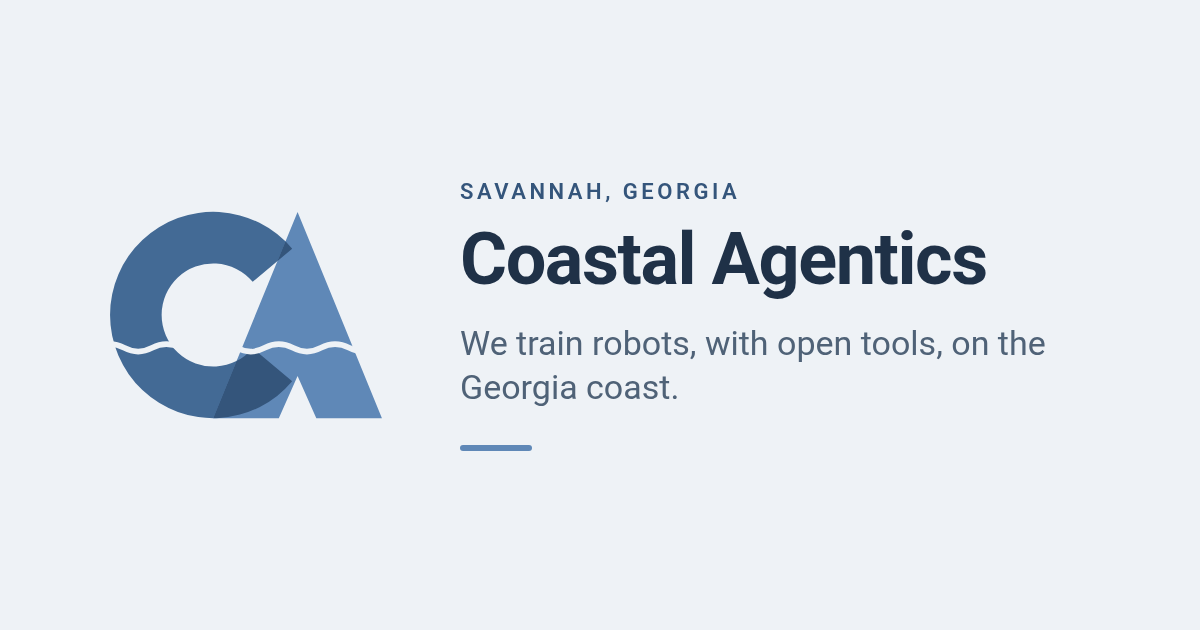
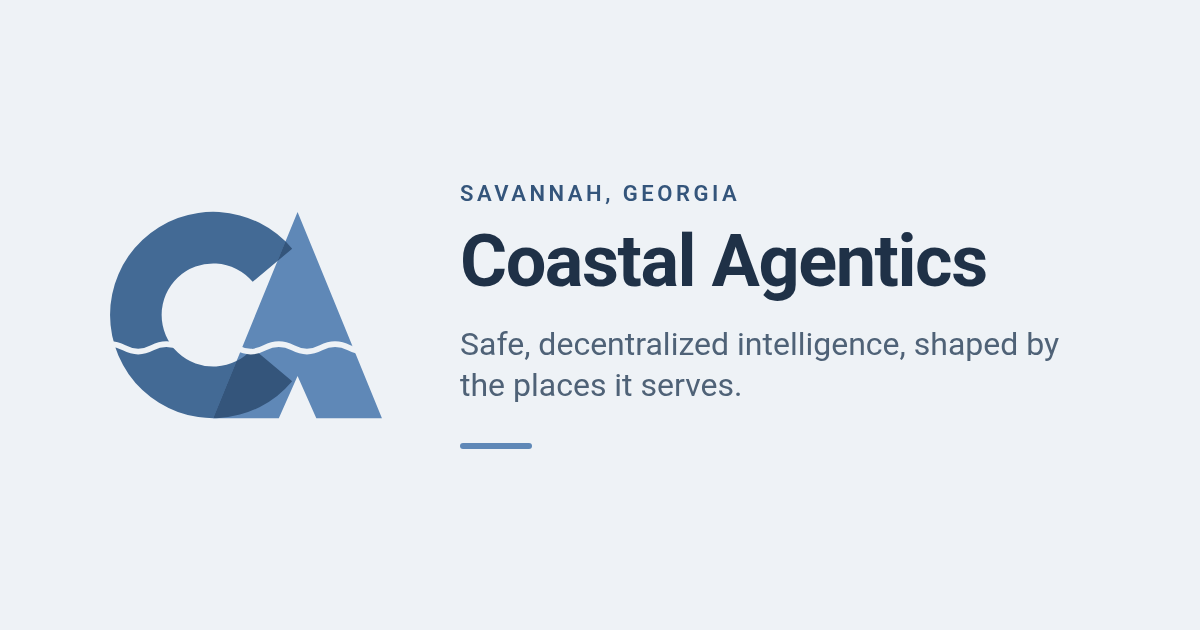
v1.1.0: reposition copy (culture + technology), hero: Safe, decentralized intelligence, shaped by the places it serves.

diff --git a/index.html b/index.html
@@ -3,24 +3,24 @@
 <head>
   <meta charset="utf-8">
   <meta name="viewport" content="width=device-width, initial-scale=1">
-  <title>Coastal Agentics · Savannah, Georgia</title>
-  <meta name="description" content="We train robots, with open tools, on the Georgia coast. Coastal Agentics teaches and demonstrates decentralized agent systems on edge devices.">
+  <title>Coastal Agentics · Safe, decentralized intelligence</title>
+  <meta name="description" content="Safe, decentralized intelligence, shaped by the places it serves. Coastal Agentics researches how communities learn together. Savannah, Georgia.">
   <link rel="icon" href="favicon.svg" type="image/svg+xml">
   <meta name="theme-color" content="#EEF2F6">
   <link rel="canonical" href="https://coastal-agentics.github.io/">
   <!-- Social cards: crawlers require absolute URLs here -->
   <meta property="og:type" content="website">
   <meta property="og:site_name" content="Coastal Agentics">
-  <meta property="og:title" content="Coastal Agentics · Savannah, Georgia">
-  <meta property="og:description" content="We train robots, with open tools, on the Georgia coast.">
+  <meta property="og:title" content="Coastal Agentics · Safe, decentralized intelligence">
+  <meta property="og:description" content="Safe, decentralized intelligence, shaped by the places it serves. Coastal Agentics researches how communities learn together. Savannah, Georgia.">
   <meta property="og:url" content="https://coastal-agentics.github.io/">
   <meta property="og:image" content="https://coastal-agentics.github.io/og-image.png">
   <meta property="og:image:width" content="1200">
   <meta property="og:image:height" content="630">
-  <meta property="og:image:alt" content="Coastal Agentics logo: a solid C and a triangular A. We train robots, with open tools, on the Georgia coast.">
+  <meta property="og:image:alt" content="Coastal Agentics logo: a solid C and a triangular A. Safe, decentralized intelligence, shaped by the places it serves.">
   <meta name="twitter:card" content="summary_large_image">
-  <meta name="twitter:title" content="Coastal Agentics · Savannah, Georgia">
-  <meta name="twitter:description" content="We train robots, with open tools, on the Georgia coast.">
+  <meta name="twitter:title" content="Coastal Agentics · Safe, decentralized intelligence">
+  <meta name="twitter:description" content="Safe, decentralized intelligence, shaped by the places it serves. Coastal Agentics researches how communities learn together. Savannah, Georgia.">
   <meta name="twitter:image" content="https://coastal-agentics.github.io/og-image.png">
   <link rel="stylesheet" href="style.css">
 </head>
@@ -30,6 +30,7 @@
       <img src="logo-wordmark.svg" alt="Coastal Agentics" width="206" height="40">
     </a>
     <nav aria-label="Primary">
+      <a href="#what-we-do">What we do</a>
       <a href="#beliefs">Beliefs</a>
       <a href="#saltmarsh">Saltmarsh</a>
       <a href="#projects">Projects</a>
@@ -39,49 +40,59 @@
   <main>
     <section class="hero wrap">
       <p class="eyebrow">Savannah, Georgia</p>
-      <h1>We train robots, with open tools, on the Georgia coast.</h1>
-      <p class="lede">Coastal Agentics teaches and demonstrates decentralized agent systems on edge devices. Education and demos are the product.</p>
-      <p class="cta"><a class="button" href="https://starscream-agentics.github.io/arena/arena.html">Watch the Tank Arena</a></p>
+      <h1>Safe, decentralized intelligence, shaped by the places it serves.</h1>
+      <p class="lede">We research how communities learn together, and how intelligent systems can take part: openly, locally, and alongside the people who live with them.</p>
+      <p class="cta"><a class="button" href="#what-we-do">What we do</a> <a class="text-link" href="https://starscream-agentics.github.io/arena/arena.html">Watch the Tank Arena</a></p>
+    </section>
+
+    <section id="what-we-do" class="section wrap">
+      <h2>What we do</h2>
+      <div class="prose">
+        <p>Our subject is the behavior of intelligent agents: how they learn, what they optimize for, and how they act once they are out in the world. That question is as cultural as it is technical. It depends on who shapes a system, where, and for whom.</p>
+        <p>Robots will arrive across coastal Georgia over the next decade: at the port, in manufacturing, in logistics and in entertainment. The intelligence that runs them will be shaped somewhere, by someone. We want a meaningful share of it shaped here, by people who live here, with tools anyone can inspect.</p>
+        <p>We work alongside organizations, communities and industry on how intelligent systems fit the places they serve, through research partnerships and field work.</p>
+      </div>
+      <ul class="pillars">
+        <li><strong>Research</strong> How groups of people learn together, and how decentralized agents learn in simulation and carry that behavior onto physical robots and edge devices.</li>
+        <li><strong>Field work</strong> Experiments taken out of the lab and into real places, built alongside the people who know those places best.</li>
+        <li><strong>Open tools</strong> Everything we use is open, so the work can be checked, repeated and carried on by anyone.</li>
+      </ul>
     </section>
 
     <section id="beliefs" class="section wrap">
-      <h2>What we do</h2>
-      <div class="prose">
-        <p>Our subject is the behavior of intelligent agents: how they are trained, what they optimize for, and how they act once they are deployed. We train agents in simulation and move them onto physical robots.</p>
-        <p>Robots will arrive across coastal Georgia over the next decade, at the port, in manufacturing, in logistics and in entertainment. The intelligence that runs them will be trained somewhere, by someone. We want a meaningful share of it trained here, by people who live here, with tools anyone can inspect.</p>
-      </div>
-
-      <h3>What we believe</h3>
+      <h2>What we believe</h2>
       <ul class="beliefs">
-        <li><strong>Open by default.</strong> Our tools and methods are open.</li>
-        <li><strong>Rewards in public.</strong> Reward functions are published, because they determine what an agent does.</li>
-        <li><strong>Provenance.</strong> Every dataset records who made it.</li>
-        <li><strong>Safety first.</strong> Monitoring and constraints are in place before an agent runs.</li>
-        <li><strong>No lock-in.</strong> Anyone who leaves takes everything with them.</li>
-        <li><strong>Expertise before teaching.</strong> We build the engine and the pipeline first, in public demonstrations. Then we teach, on our own and with partners across the state.</li>
+        <li><strong>Community.</strong> Intelligence is shaped by the people around it. Those who live with a system should have a hand in how it learns.</li>
+        <li><strong>Place.</strong> Systems belong close to where they run, shaped by people who know that place.</li>
+        <li><strong>Openness.</strong> Our tools and methods are open. Reward functions are published, because they determine what an agent does.</li>
+        <li><strong>Trust.</strong> Every dataset records who made it. Anyone who works with us can leave with everything.</li>
+        <li><strong>Safety.</strong> Monitoring and constraints are in place before an agent runs.</li>
+        <li><strong>Decentralization.</strong> We favor many small agents on edge devices, close to the people they serve, over one distant system.</li>
       </ul>
     </section>
 
     <section id="saltmarsh" class="section wrap">
+      <p class="eyebrow">Research tool</p>
       <h2>Saltmarsh</h2>
       <div class="prose">
-        <p>Saltmarsh is our open-source training engine. It is not a new physics engine. It is a Python distribution that packages <strong>MuJoCo</strong>, <strong>Gymnasium</strong>, <strong>CleanRL</strong>, <strong>Stable-Baselines3</strong> and <strong>LeRobot</strong> into one install, so a newcomer can train an agent in an afternoon.</p>
+        <p>Saltmarsh is the open-source engine behind our research. It is not a new physics engine. It is a Python distribution that packages <strong>MuJoCo</strong>, <strong>Gymnasium</strong>, <strong>CleanRL</strong>, <strong>Stable-Baselines3</strong> and <strong>LeRobot</strong> into one install, so a newcomer can have an agent learning in an afternoon, and anyone can run everything without us.</p>
       </div>
       <ul class="stack" aria-label="Saltmarsh components">
         <li><span>MuJoCo</span> physics</li>
         <li><span>Gymnasium</span> environments</li>
         <li><span>CleanRL</span> &amp; <span>SB3</span> reinforcement learning</li>
-        <li><span>LeRobot</span> demonstrations &amp; robots</li>
+        <li><span>LeRobot</span> robot data &amp; deployment</li>
       </ul>
     </section>
 
     <section id="projects" class="section wrap">
+      <p class="eyebrow">Field experiments</p>
       <h2>Projects</h2>
       <div class="cards">
         <article class="card">
           <p class="card-tag">Live</p>
           <h3>Tank Arena</h3>
-          <p>A tank simulation written in Rust and compiled to WebAssembly, running in your browser. Built by Starscream Agentics, our simulations lab.</p>
+          <p>Our first field experiment: a tank simulation written in Rust and compiled to WebAssembly, running in your browser. Built by Starscream Agentics, our simulations lab.</p>
           <p class="links">
             <a class="button" href="https://starscream-agentics.github.io/arena/arena.html">Watch the sim</a>
             <a class="text-link" href="https://github.com/starscream-agentics/arena">Source on GitHub</a>
@@ -90,7 +101,7 @@
         <article class="card card-next">
           <p class="card-tag">Next</p>
           <h3>Saltmarsh world <span class="soon">(coming)</span></h3>
-          <p>A MuJoCo world built on Saltmarsh, with a walker or an arm.</p>
+          <p>The next experiment: a MuJoCo world built on Saltmarsh, with a walker or an arm.</p>
         </article>
       </div>
     </section>

diff --git a/style.css b/style.css
@@ -48,12 +48,12 @@ a:focus-visible { outline: 2px solid var(--a); outline-offset: 3px; border-radiu
   text-transform: uppercase; color: var(--overlap); font-weight: 600;
 }
 h1 {
-  margin: 0; max-width: 18ch;
+  margin: 0; max-width: 21ch;
   font-size: clamp(2.25rem, 6vw, 4rem); line-height: 1.08;
   letter-spacing: -0.02em; font-weight: 700;
 }
 .lede { max-width: 38rem; margin: 1.75rem 0 0; font-size: 1.2rem; color: var(--ink-soft); }
-.cta { margin-top: 2.5rem; }
+.cta { margin-top: 2.5rem; display: flex; flex-wrap: wrap; align-items: center; gap: 1rem 1.5rem; }
 
 .button {
   display: inline-block; padding: 0.7rem 1.25rem; border-radius: 999px;
@@ -80,6 +80,12 @@ h3 { margin: 3rem 0 1.25rem; font-size: 1.2rem; }
   list-style: none; margin: 0; padding: 0;
   display: grid; gap: 1.5rem 3rem; grid-template-columns: repeat(auto-fit, minmax(16rem, 1fr));
 }
+.pillars {
+  list-style: none; margin: 2.5rem 0 0; padding: 0;
+  display: grid; gap: 1.5rem 3rem; grid-template-columns: repeat(auto-fit, minmax(16rem, 1fr));
+}
+.pillars li { padding-top: 1rem; border-top: 2px solid var(--a); color: var(--ink-soft); }
+.pillars strong { display: block; color: var(--ink); margin-bottom: 0.25rem; }
 .beliefs li { padding-left: 1rem; border-left: 2px solid var(--line); color: var(--ink-soft); }
 .beliefs strong { display: block; color: var(--ink); }
 
@@ -109,6 +115,7 @@ h3 { margin: 3rem 0 1.25rem; font-size: 1.2rem; }
 .soon { font-weight: 400; color: var(--ink-soft); }
 .links { display: flex; flex-wrap: wrap; align-items: center; gap: 1rem 1.5rem; margin: 1.5rem 0 0 !important; }
 .text-link { font-weight: 600; font-size: 0.95rem; }
+.section > .eyebrow { margin-bottom: 0.75rem; }
 
 /* Footer */
 .site-footer { margin-top: 3rem; border-top: 1px solid var(--line); background: var(--bg-deep); }

diff --git a/CARD.md b/CARD.md
@@ -2,19 +2,21 @@
 
 **What it is:** The static company website for Coastal Agentics (Savannah, Georgia), to be served at https://coastal-agentics.github.io. It includes `index.html`, `style.css`, `404.html`, the logo mark (`logo.svg`), the wordmark (`logo-wordmark.svg`), `favicon.svg` and the social card `og-image.png`.
 
-**Version:** 1.0.0 (first public release)
+**Version:** 1.1.0 (2026-09-30) repositions the copy toward culture and technology, with the hero "Safe, decentralized intelligence, shaped by the places it serves." 1.0.0 was the first public release.
 
 **Made by:** Soundwave (CoS) with Grok Bot, for Nye Warburton.
 
-**Date:** 2026-09-30 (v1.0.0 published the same day)
+**Date:** 2026-09-30 (v1.0.0 and v1.1.0 published the same day)
 
 **Sources used:**
-- `manifesto.pdf`: *Coastal Agentics Manifesto*, Savannah, Georgia, September 2026. Used for the hero line, the "what we do" copy, beliefs, and the Saltmarsh description.
+- `manifesto.pdf`: *Coastal Agentics Manifesto*, Savannah, Georgia, September 2026. Used for "what we do" (the subject of agent behavior, the coastal Georgia mission), the openness, trust and safety beliefs, and the Saltmarsh description.
 - `initial-idea-for-seth.pdf`: *Coastal Agentics: an initial idea, for discussion*, September 29, 2026. Background only. It confirms that Stable-Baselines3 is part of Saltmarsh and that Saltmarsh is a distribution, not a new physics engine. No other content from it appears on the site.
-- `charter-coastal-v1.md`: Coastal CoS charter summary, 2026-09-30. It confirms the hero statement and the next project, a Saltmarsh world (MuJoCo, walker or arm).
-- Facts supplied by Nye on 2026-09-30: founding date October 1, 2026; founder Nye Warburton; education and demos as the product; the Saltmarsh component list; Tank Arena URLs; Starscream Agentics as the simulations lab.
+- `charter-coastal-v1.md`: Coastal CoS charter summary, 2026-09-30. It confirms the next project, a Saltmarsh world (MuJoCo, walker or arm).
+- Facts supplied by Nye on 2026-09-30: founding date October 1, 2026; founder Nye Warburton; decentralized agent systems on edge devices; the Saltmarsh component list; Tank Arena URLs; Starscream Agentics as the simulations lab.
 
-**Deliberately excluded:** advisors, budgets, dollar figures, partner and client names, email addresses, and the manifesto's consulting and data-collection lines of business, because the stated product is education and demos.
+- Founder direction on positioning, 2026-09-30: the front page is as much cultural as technical. Its core ideas are research on how communities learn together, and safe, decentralized intelligence. The engagement model is described only as working alongside organizations, communities and industry through research partnerships and field work.
+
+**Deliberately excluded:** advisors, budgets, dollar figures, partner and client names (none are invented), email addresses, and the manifesto's specific commercial lines (client builds and data collection for manufacturers).
 
 **Logo:** An original geometric mark with no third-party assets, fonts or templates. It is a solid C (#436A95) and a solid triangular A (#5F88B7) with a small notch for the A's counter. Where they overlap the tone is #34557B, and a hairline wave (1.2/64) is knocked out across both shapes. The geometry is exact: the C's outer diameter equals the A's height (44/64), so both share a baseline and cap line, and the A's left foot lands on the C's lowest point. `favicon.svg` drops the wave, which cannot be seen at 16 to 32px.
 
@@ -25,6 +27,6 @@ It went through five rounds of iteration, all kept in `/workspace/coastal-site-l
 4. v4: six solid-shape variants. The founder picked "Wave knockout".
 5. v5: five precise-intersection refinements. The founder picked #5 "Foot", which became the final mark.
 
-**Social card:** `og-image.png` (1200x630) was rendered in headless Chrome from `logo.svg` and the manifesto line.
+**Social card:** `og-image.png` (1200x630) was rendered in headless Chrome from `logo.svg` and the site's hero line.
 
 **License:** Not yet specified.

diff --git a/README.md b/README.md
@@ -1,6 +1,6 @@
 # coastal-agentics.github.io
 
-The public website for **Coastal Agentics**, a Savannah, Georgia company that teaches and demonstrates decentralized agent systems on edge devices.
+The public website for **Coastal Agentics**, a Savannah, Georgia company that researches how communities learn together, and safe, decentralized intelligence.
 
 Served by GitHub Pages at <https://coastal-agentics.github.io> from the root of the `main` branch.
 
@@ -8,7 +8,7 @@ Served by GitHub Pages at <https://coastal-agentics.github.io> from the root of 
 
 | File | Purpose |
 | --- | --- |
-| `index.html` | The whole site: hero, what we do and believe, Saltmarsh, projects, footer |
+| `index.html` | The whole site: hero, what we do, what we believe, Saltmarsh (research tool), projects (field experiments), footer |
 | `style.css` | All styles. System fonts, no framework |
 | `logo.svg` | The mark: a solid C and a triangular A that overlap, with a hairline wave knocked out of both |
 | `logo-wordmark.svg` | The mark plus "Coastal Agentics" |
